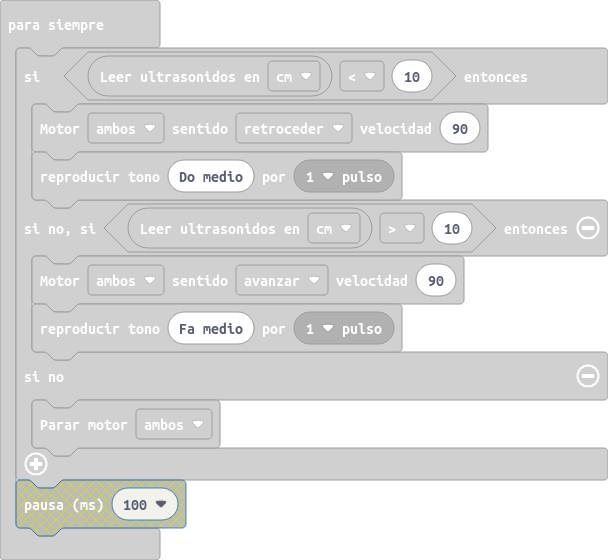
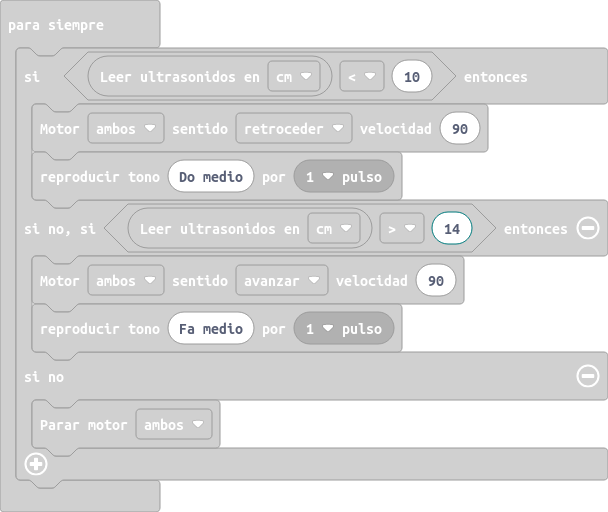
Variación como verdadero torero

diff --git a/main.ts b/main.ts
@@ -4,7 +4,7 @@ basic.forever(function () {
     if (maqueen.Ultrasonic(PingUnit.Centimeters) < 10) {
         maqueen.motorRun(maqueen.Motors.All, maqueen.Dir.CCW, 90)
         music.playTone(262, music.beat(BeatFraction.Whole))
-    } else if (maqueen.Ultrasonic(PingUnit.Centimeters) > 10) {
+    } else if (maqueen.Ultrasonic(PingUnit.Centimeters) > 14) {
         maqueen.motorRun(maqueen.Motors.All, maqueen.Dir.CW, 90)
         music.playTone(349, music.beat(BeatFraction.Whole))
     } else {
